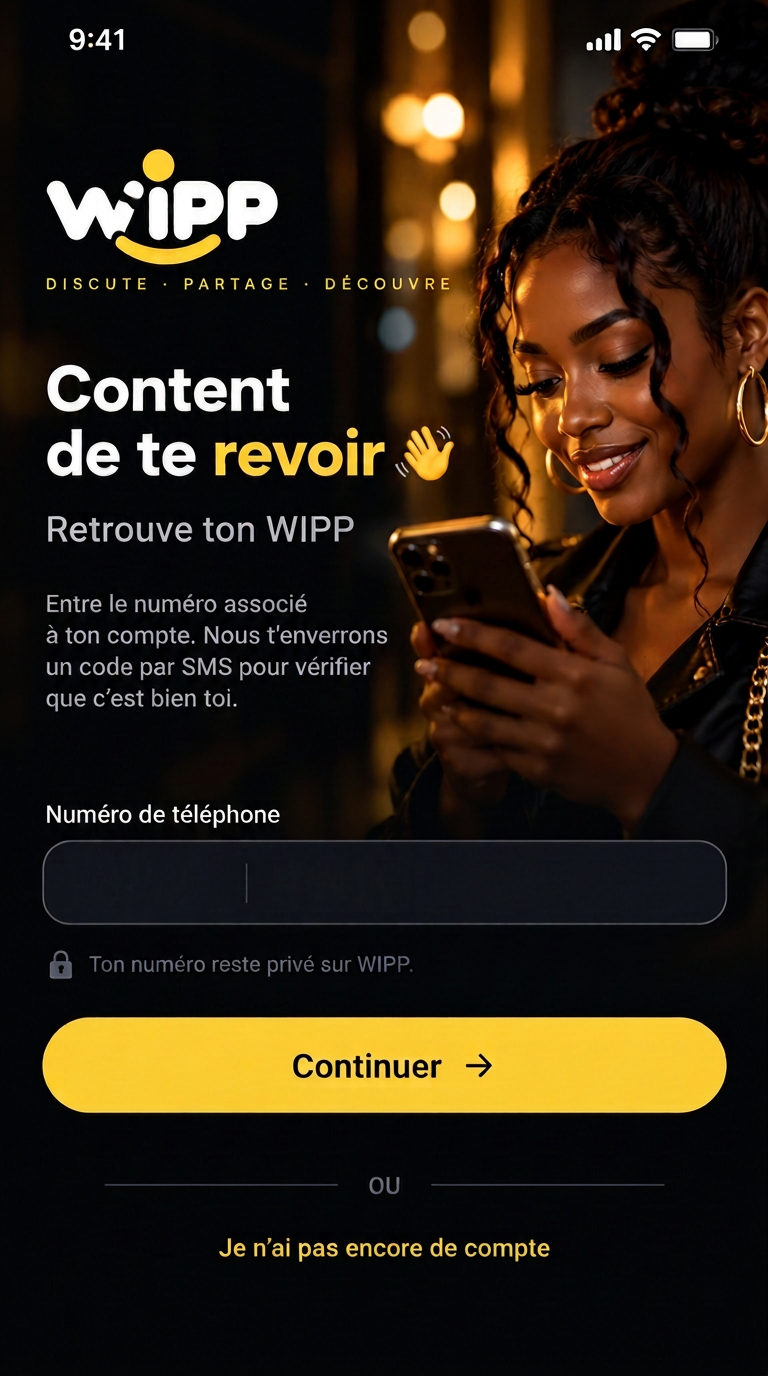
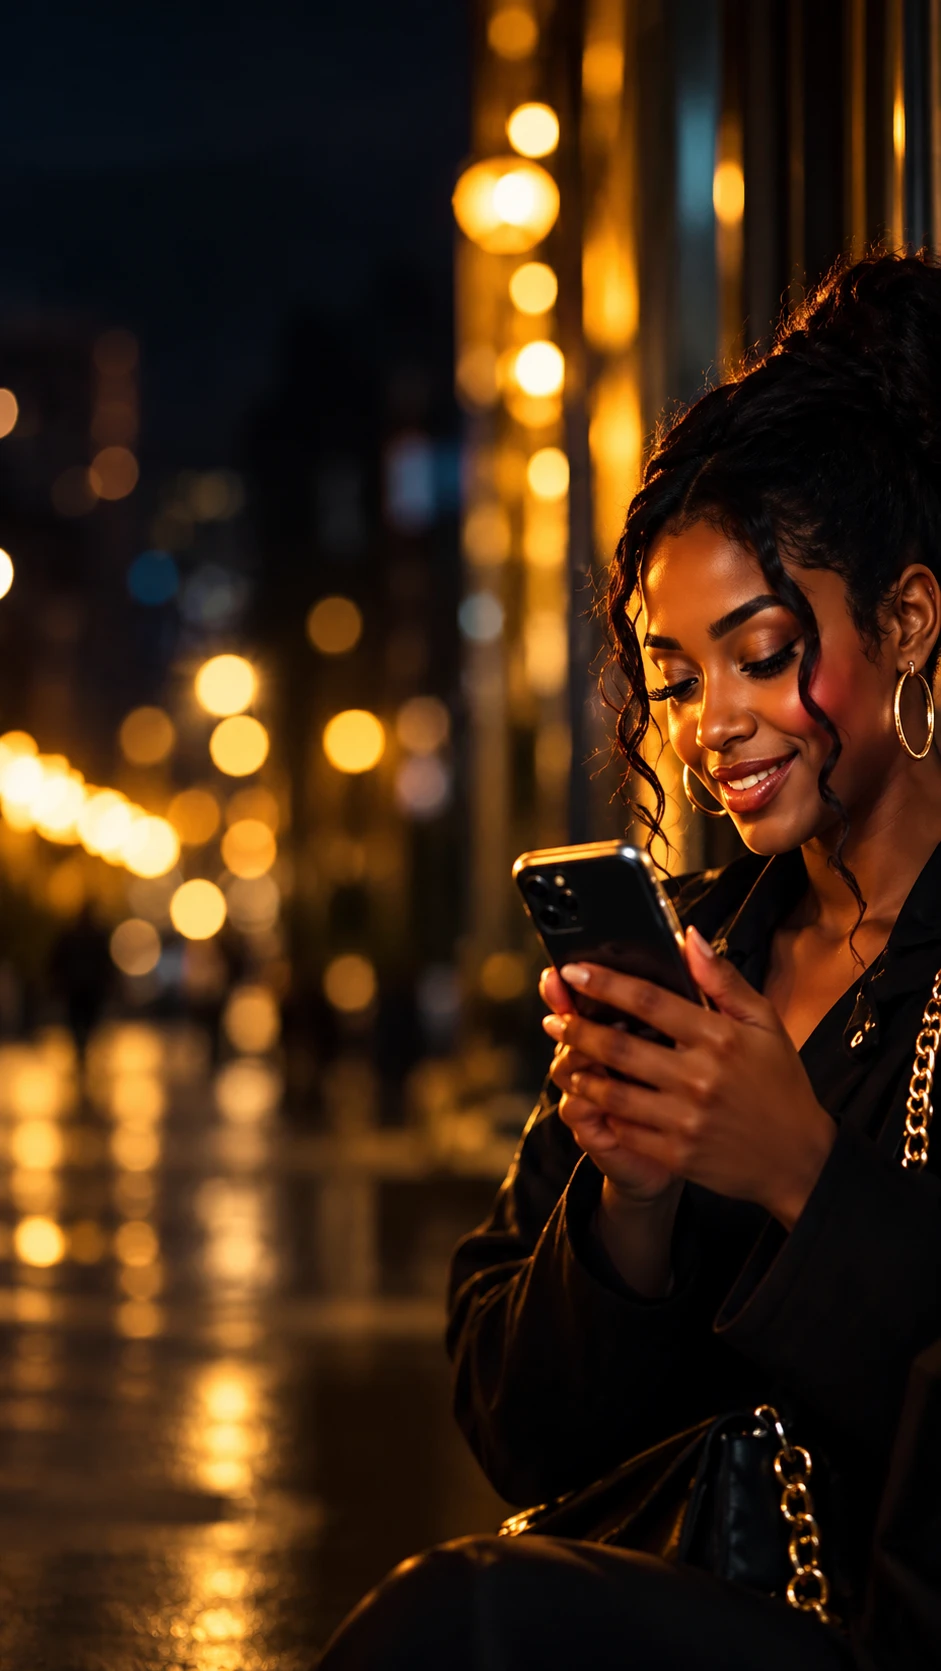
fix(native): écran « J'ai déjà un compte » sur nouveau fond décor seul
- logo, titre, texte et lien « Je n'ai pas encore de compte » dessinés par l'app
- voile sombre à gauche pour la lisibilité, bouton retour

diff --git a/native/src/screens/auth.tsx b/native/src/screens/auth.tsx
@@ -1,3 +1,4 @@
+import { LinearGradient } from "expo-linear-gradient";
 import { useCallback, useEffect, useRef, useState, type ReactNode } from "react";
 import { Image } from "expo-image";
 import * as ImagePicker from "expo-image-picker";
@@ -530,6 +531,7 @@ export function PhoneEntryScreen() {
 export function LoginScreen() {
   const t = useT();
   const push = useWippStore((s) => s.push);
+  const pop = useWippStore((s) => s.pop);
   const [country, setCountry] = useState(DEFAULT_COUNTRY);
   const [menuOpen, setMenuOpen] = useState(false);
   const [phone, setPhone] = useState("");
@@ -562,7 +564,37 @@ export function LoginScreen() {
   return (
     <Artwork source={authLogin}>
       {(reveal) => <>
-      <Abs t={57.2} l={5.5} h={10.5} w={89}>
+      {/* The background is decor only: everything else is drawn here. */}
+      <Abs t={0} l={0} h={100} w={100}>
+        <LinearGradient
+          pointerEvents="none"
+          colors={["rgba(2,5,14,0.82)", "rgba(2,5,14,0.45)", "rgba(2,5,14,0)"]}
+          locations={[0, 0.55, 0.85]}
+          start={{ x: 0, y: 0.3 }}
+          end={{ x: 1, y: 0.3 }}
+          style={{ flex: 1 }}
+        />
+      </Abs>
+      <Abs t={6} l={4} h={6} w={12}>
+        <Pressable accessibilityLabel="Retour" onPress={pop} style={{ flex: 1, alignItems: "center", justifyContent: "center" }}>
+          <ChevronLeft size={24} color={colors.fg} />
+        </Pressable>
+      </Abs>
+      <Abs t={11} l={6} w={84}>
+        <Image source={logoGold} style={{ width: 120, height: 52 }} contentFit="contain" contentPosition="left" />
+        <Text style={{ marginTop: 6, color: colors.accent, fontSize: 10, letterSpacing: 2, fontFamily: "Inter_600SemiBold" }}>DISCUTE · PARTAGE · DÉCOUVRE</Text>
+        <Text style={{ marginTop: 20, textShadowColor: "rgba(0,0,0,0.65)", textShadowRadius: 6, color: colors.fg, fontSize: 34, lineHeight: 38, fontFamily: "Inter_700Bold" }}>
+          Content{"\n"}de te <Text style={{ color: colors.accent }}>revoir</Text> 👋
+        </Text>
+        <Text style={{ marginTop: 10, textShadowColor: "rgba(0,0,0,0.65)", textShadowRadius: 6, color: "rgba(247,249,252,0.85)", fontSize: 17, fontFamily: "Inter_500Medium" }}>Retrouve ton WIPP</Text>
+        <Text style={{ marginTop: 10, textShadowColor: "rgba(0,0,0,0.65)", textShadowRadius: 6, color: "rgba(247,249,252,0.82)", fontSize: 13, lineHeight: 19, maxWidth: 230 }}>
+          Entre le numéro associé à ton compte. Nous t’enverrons un code par SMS pour vérifier que c’est bien toi.
+        </Text>
+      </Abs>
+      <Abs t={58} l={3} h={30.5} w={94}>
+        <View pointerEvents="none" style={{ flex: 1, borderRadius: 24, backgroundColor: "rgba(5,8,18,0.86)", borderWidth: 1, borderColor: "rgba(255,255,255,0.08)" }} />
+      </Abs>
+      <Abs t={59.5} l={7} h={9.5} w={86}>
         <View ref={phoneBlockRef} style={{ flex: 1 }}>
           <Text style={{ color: colors.fg, fontSize: 15, fontFamily: "Inter_500Medium", marginBottom: 7 }}>Numéro de téléphone</Text>
           <View style={{ flex: 1, minHeight: 54, flexDirection: "row", alignItems: "center", paddingHorizontal: 12, gap: 8, borderRadius: 18, borderWidth: 1.5, borderColor: "rgba(255,255,255,0.48)", backgroundColor: "rgba(9,15,28,0.94)" }}>
@@ -596,16 +628,8 @@ export function LoginScreen() {
           </View>
         </View>
       </Abs>
-      <Abs t={67.15} l={5} h={6.5} w={90}>
-        <View pointerEvents="none" style={{ flex: 1, backgroundColor: colors.bg }} />
-      </Abs>
-      {error ? (
-        <Abs t={66.8} l={8} w={84}>
-          <Text style={{ color: colors.danger, fontSize: 10 }}>{error}</Text>
-        </Abs>
-      ) : null}
-      <Abs t={67.2} l={6} h={6.4} w={88}>
-        <View style={{ flex: 1, overflow: "hidden", justifyContent: "space-between", paddingVertical: 1 }}>
+      <Abs t={70.6} l={8} w={84}>
+        <View style={{ gap: 10 }}>
           <CheckLine
             checked={legal}
             onToggle={setLegal}
@@ -618,21 +642,22 @@ export function LoginScreen() {
             end="."
           />
           <CheckLine checked={adult} onToggle={setAdult} labelStart="Je reconnais avoir " linkA="18 ans et plus" onA={() => push({ name: "legal", doc: "age" })} end="." />
+          {error ? <Text style={{ color: colors.danger, fontSize: 11 }}>{error}</Text> : null}
         </View>
       </Abs>
-      <Abs t={73.45} l={5.1} h={7.6} w={89.8}>
-        <View style={{ flex: 1, borderRadius: 999, overflow: "hidden", backgroundColor: legal && adult ? "transparent" : colors.bg }}>
-          <ContinueHit ready={legal && adult} busy={busy} label={t("continue")} onPress={() => void tryLogin()} />
-        </View>
+      <Abs t={80.5} l={6} h={7} w={88}>
+        <ContinueHit ready={legal && adult} busy={busy} label={t("continue")} onPress={() => void tryLogin()} />
       </Abs>
-      <Abs t={89} l={20} h={4} w={60}>
+      <Abs t={90} l={10} h={6} w={80}>
         <Pressable
           accessibilityLabel="Je n’ai pas encore de compte"
           onPress={() => {
             void startFreshSignup().then(() => push({ name: "phone-entry" }));
           }}
-          style={{ flex: 1 }}
-        />
+          style={{ flex: 1, alignItems: "center", justifyContent: "center" }}
+        >
+          <Text style={{ textShadowColor: "rgba(0,0,0,0.65)", textShadowRadius: 6, color: colors.accent, fontSize: 15, fontFamily: "Inter_600SemiBold" }}>Je n’ai pas encore de compte</Text>
+        </Pressable>
       </Abs>
       <CountrySheet open={menuOpen} onClose={() => setMenuOpen(false)} onPick={setCountry} />
       <KeyboardDone nativeID={phoneAccessoryId} />
